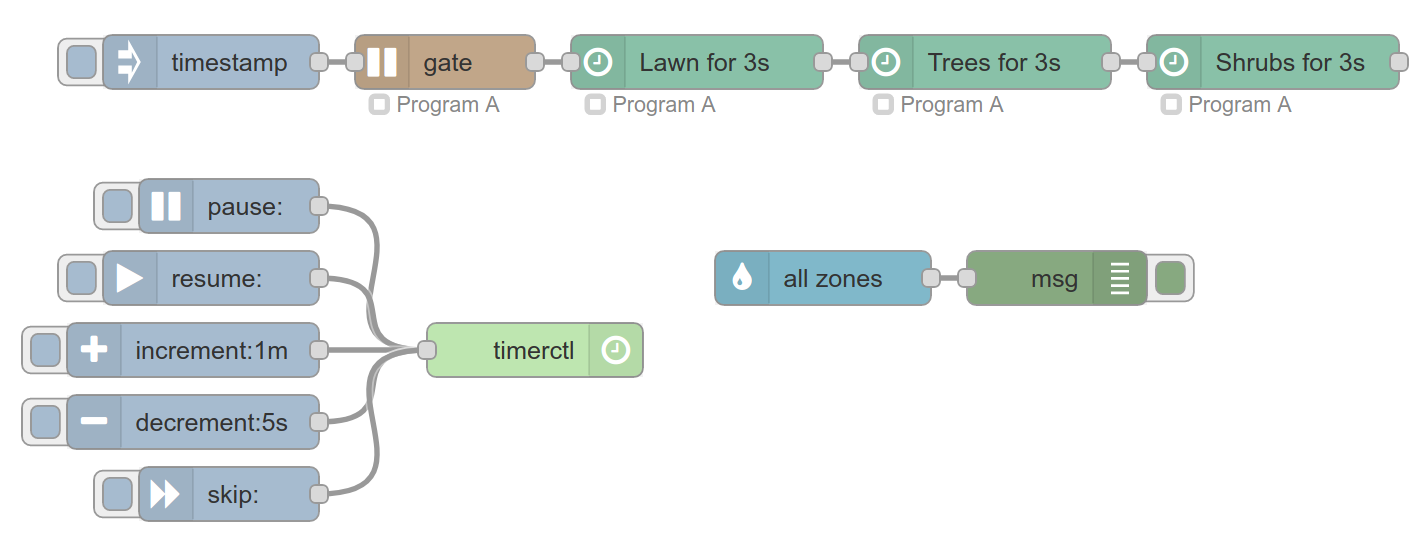
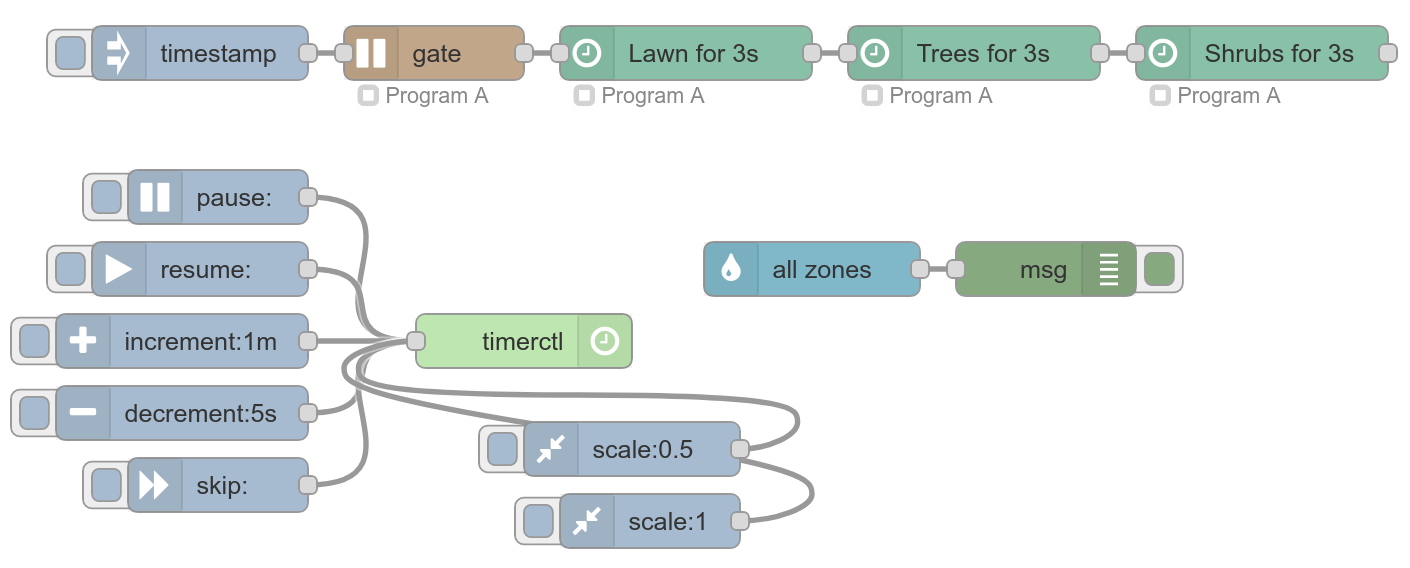
Comments, scaling, README changes, png optimization

diff --git a/src/timerctl-out.html b/src/timerctl-out.html
@@ -13,6 +13,7 @@
             incrementCmd: {value:"increment"},
             adjustCmd: {value:"adjust"},
             skipCmd: {value:"skip"},
+            scaleCmd: {value:"scale"},
         },
         inputs:1,
         outputs:0,
@@ -67,6 +68,10 @@
     <label for="node-input-adjustCmd"><i class="fa fa-undo"></i> Adjust</label>
         <input type="text" id="node-input-adjustCmd" placeholder="adjust" style="width:40%">
     </div>
+    <div class="form-row">
+    <label for="node-input-scaleCmd"><i class="fa fa-compress"></i> Scale</label>
+        <input type="text" id="node-input-scaleCmd" placeholder="scale" style="width:40%">
+    </div>
 </script>
 
 <script type="text/html" data-help-name="timerctl out">
@@ -91,9 +96,15 @@
     <h3>Skip</h3>
     <p>Stops the timer and immediately proceeds as if the timer had just reached zero time remaining.</p>
     <h3>Adjust</h3>
-    <p>Resets the timer's configured duration to <code>msg.payload</code>. If a zero or non-negative duration is given, the command will perform like a skip command.
+    <p>Resets the timer's configured duration to <code>msg.payload</code>. If a zero or non-negative duration is given, the command will perform like a skip command.</p>
     <dl class="message-properties">
         <dt>payload <span class="property-type">string | number</span></dt>
         <dd>Either number of seconds or a formatted amount of time (eg <i>"3m"</i>)</dd>
+    </dl>
+    <h3>Scale</h3>
+    <p>Scales the currently running timer and all future timers by <code>msg.payload</code>. Useful for changing watering based on weather conditions.</p>
+    <dl class="message-properties">
+        <dt>payload <span class="property-type">number</span></dt>
+        <dd>Fraction by which timer durations are multiplied by. The fraction 1 is 100%.</dd>
     </dl>
 </script>

diff --git a/src/program.js b/src/program.js
@@ -3,6 +3,7 @@ module.exports = function(RED) {
         RED.nodes.createNode(this, config);
         this.name = config.name;
         this.state = 'stopped';
+        this.scale = 1; // time to scale how long the timer will wait
         this.resolution = 1000; // tick every second
 
         // Zone stuff (events from zone-timer and zone-out nodes)
@@ -21,7 +22,7 @@ module.exports = function(RED) {
         // Handle timer events that are sent from timerctl-in and zone-timer nodes
         this.on('start', (timeout) => {
             if (this.state != 'stopped') return;
-            set('tick', timeout);
+            set('tick', Math.round(timeout * this.scale));
             resumeTimer();
         });
         this.on('resume', () => {
@@ -46,6 +47,11 @@ module.exports = function(RED) {
                 clearTimeout(this.ticker);
                 tick();
             }
+        });
+        this.on('scale', (newscale) => {
+            // Update current ticks to use the new scaling
+            set('tick', Math.round(this.tick / this.scale * newscale));
+            this.scale = newscale;
         });
 
         // start the timer, whether it was stopped or paused

diff --git a/src/timerctl-out.js b/src/timerctl-out.js
@@ -13,6 +13,7 @@ module.exports = function(RED) {
             let seconds = getSeconds(msg.payload);
             if (seconds <= 0) seconds = 60;
 
+            if (!msg.topic) return;
             if (msg.topic == config.pauseCmd) {
                 this.program.emit('pause');
                 if (!config.noblock) this.program.emit('block');
@@ -28,6 +29,11 @@ module.exports = function(RED) {
                 this.program.emit('adjust', 0);
             } else if (msg.topic == config.adjustCmd) {
                 this.program.emit('adjust', seconds);
+            } else if (msg.topic == config.scaleCmd) {
+                const castPayload = Number(msg.payload);
+                if (isNaN(castPayload)) return done('Scale ' + msg.payload + ' is not a number');
+                if (castPayload > 2) this.warn('Scale ' + msg.payload + ' is fairly large. A scale of 1 means 100%.');
+                this.program.emit('scale', castPayload);
             }
             done();
         });

diff --git a/src/run-gate.js b/src/run-gate.js
@@ -3,6 +3,7 @@ module.exports = function(RED) {
         RED.nodes.createNode(this, config);
         this.program = RED.nodes.getNode(config.program);
 
+        // Set the node status whenever timer state changes
         const onState = (state) => {
             if (state == 'stopped') {
                 this.status({ fill:'grey', shape:'ring', text: this.program.name });
@@ -23,6 +24,8 @@ module.exports = function(RED) {
             // Don't handle messages that are meant for a different program
             if (msg.program && msg.program != this.program.name) return done();
 
+            // Pass the message through if the program is stopped (not started, not paused,
+            // and not blocked). Otheriwse, don't send the message.
             if (this.program.state == 'stopped') {
                 msg.program = this.program.name;
                 send(msg);

diff --git a/src/opensprinkler.js b/src/opensprinkler.js
@@ -73,6 +73,7 @@ module.exports = function(RED) {
             }
         });
         this.on('close', () => {
+            // Turn off all zones when Node-RED restarts the flow
             sendRequest(offRequest(password), (err) => console.log(err), (dat) => console.log(dat));
         });
     }
@@ -83,6 +84,7 @@ module.exports = function(RED) {
     });
 }
 
+/** Returns the URL to turn a zone on or off. */
 function zoneRequest(zone, enable, time, password) {
     let url = "/cm?pw="+password+"&sid=" + zone;
     if (enable) {
@@ -93,6 +95,7 @@ function zoneRequest(zone, enable, time, password) {
     return url;
 }
 
+/** Returns the URL to turn all zones off. */
 function offRequest(password) {
     return "/cv?pw="+password+"&rsn=1";
 }

diff --git a/src/zone-timer.js b/src/zone-timer.js
@@ -39,7 +39,7 @@ module.exports = function(RED) {
                 } else if (state == 'running') { // Change status when timer starts/resumes
                     if (this.lastTick) this.status({ fill: 'blue', shape: 'dot', text: 'Running: ' + this.lastTick });
                     // Trigger the zone to be on. We'll handle this event as soon as the timer turns on,
-                    // so the zone turn on for the first time here!
+                    // so the zone will turn on for the first time here!
                     this.program.emit('set-zone', zoneName, onVal);
                 }
             }

diff --git a/src/timerctl-in.js b/src/timerctl-in.js
@@ -4,6 +4,7 @@ module.exports = function(RED) {
         this.program = RED.nodes.getNode(config.program);
         if (!this.program) return;
 
+        // Send state messages to our first output
         const onState = (state) => {
             this.send([{
                 topic: config.stateCmd,
@@ -11,6 +12,7 @@ module.exports = function(RED) {
                 program: this.program.name,
             }, null]);
         };
+        // Send tick messages to our second output
         const onTick = (tick) => {
             this.send([null, {
                 topic: config.tickCmd,

diff --git a/README.md b/README.md
@@ -1,13 +1,16 @@
 # Node-red-contrib-sprinkler
 
-The most powerful sprinkler and irrigation controller.
+Looking for more flexibility than your dumb sprinkler controller provides? Use Node-RED flows to:
 
-:crystal_ball: Use custom sensor and data to adjust watering based on rain levels, humidity, and forecasts\
+:crystal_ball: Use custom sensors and weather data to adjust watering based on rain levels, humidity, and forecasts\
 :sunny: Set different schedules for summer and winter, or May and June\
 :bell: Send notifications when a zone turns on or when a program runs\
-:desktop_computer: Use your own UI or use one of the examples\
-:robot: Connect to OpenSprinkler, MQTT, or GPIO pins\
+:desktop_computer: Use your own UI or customize one of the examples\
+:robot: Connect to OpenSprinkler, MQTT, or GPIO pins. Hardware independent!\
+:brain: Use machine learning to optimize your watering schedule (maybe linear regression with weather data?)\
 :exploding_head: Connect Node-RED nodes to accomplish whatever your imagination desires
+
+*Disclaimer: Most of these tasks require additional nodes outside those provided by this library. Knowledge of Node-RED and mental labor required.*
 
 ## Getting started
 
